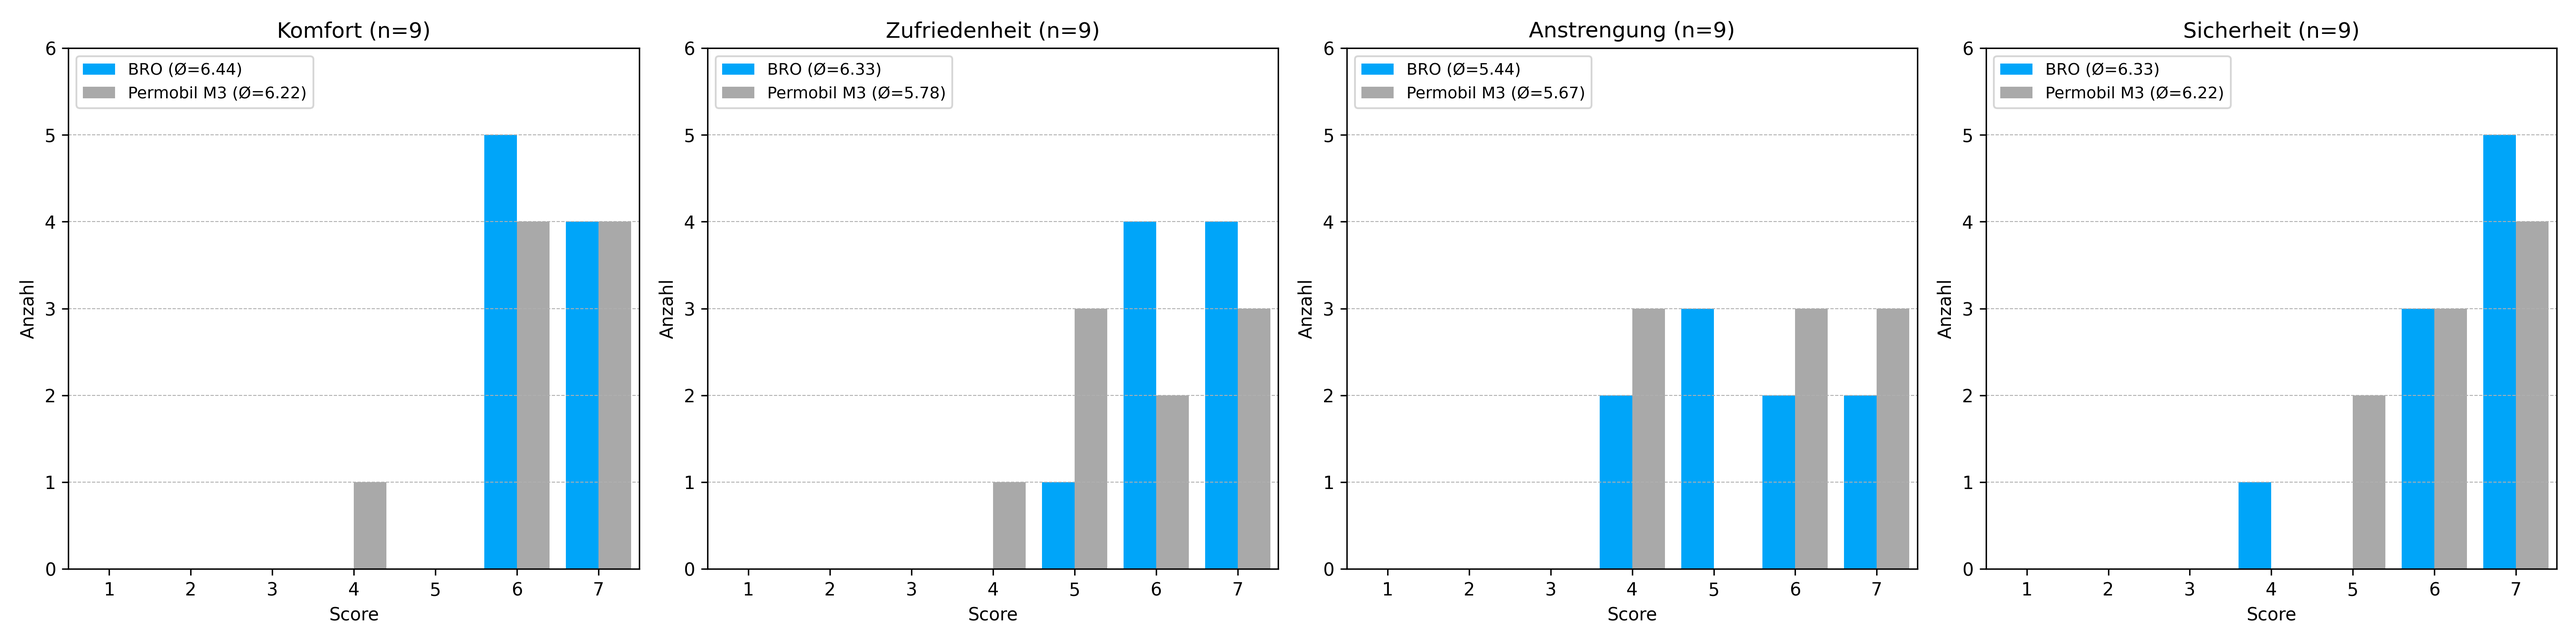
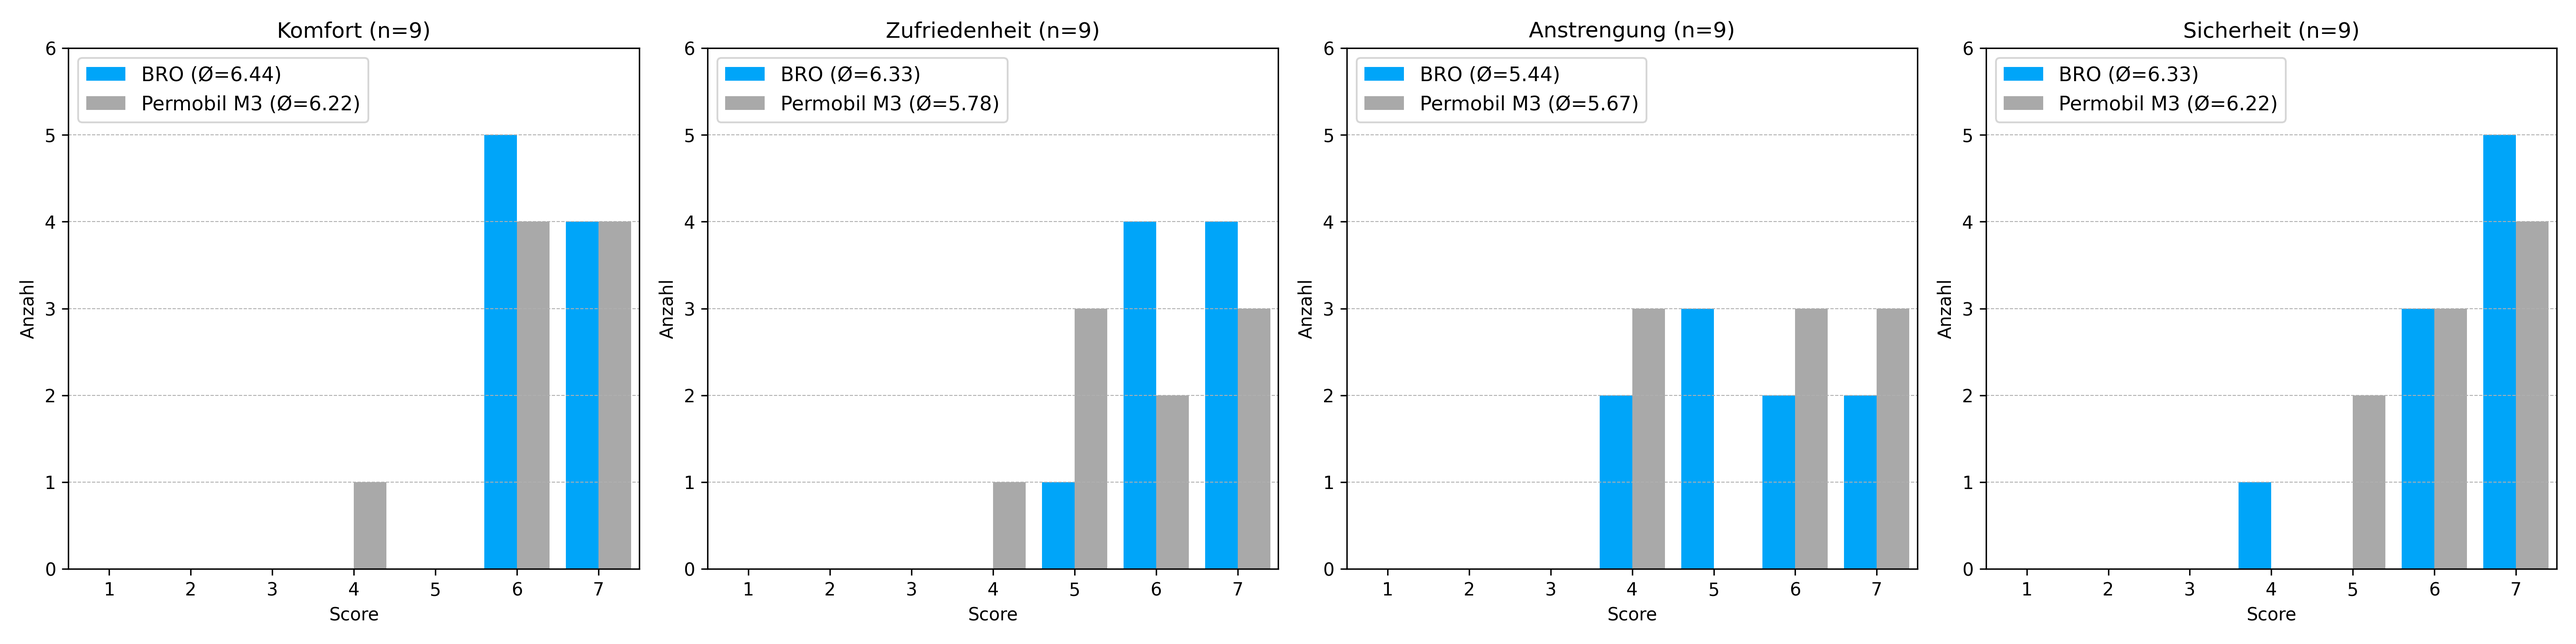
new charts

diff --git a/Code/EOU-effort_barplot.py b/Code/EOU-effort_barplot.py
@@ -15,13 +15,11 @@ def load_csv(filename):
     return pd.read_csv(os.path.join(BASE_DIR, "../Data", filename))
 
 def calculate_mean(value_counts):
-    """Calculate the mean score from value counts."""
     scores = np.array(value_counts.index)
     freq = value_counts.values
     return (scores * freq).sum() / freq.sum() if freq.sum() > 0 else 0
 
 def extract_metric_values(df, metric_suffix, task_labels):
-    """Extract EOU or effort values with correct M1/M2 mapping based on group."""
     records = []
     for _, row in df.iterrows():
         for task in task_labels:
@@ -51,23 +49,26 @@ def plot_eou_effort_paired(data_eou, data_effort, task_labels, output_file):
                     continue
 
                 mean_vals = {}
+                max_height = 0
+
                 for j, version in enumerate(['BRO', 'Permobil M3']):
                     values = subset[subset['Version'] == version]['Score']
                     counts = values.value_counts().reindex(SCORE_RANGE, fill_value=0).sort_index()
                     scores = np.array(counts.index)
                     freq = counts.values
                     mean_vals[version] = (scores * freq).sum() / freq.sum() if freq.sum() > 0 else 0
+                    max_height = max(max_height, freq.max())
                     x = [s + (j - 0.5) * BAR_WIDTH for s in SCORE_RANGE]
                     ax.bar(x, freq, width=BAR_WIDTH, label=f"{version} (Ø={mean_vals[version]:.2f})", color=COLOR_MAP[version])
 
                 ax.set_title(f"{metric_label} – Aufgabe {task}")
                 ax.set_xlim(0.5, 7.5)
-                ax.set_ylim(0, max(freq.max(), 1) + 1)
+                ax.set_ylim(0, max_height + 1)
                 ax.set_xticks(SCORE_RANGE)
                 ax.set_xlabel('Score')
                 ax.set_ylabel('Anzahl')
                 ax.grid(True, axis='y', linestyle='--', linewidth=0.5)
-                ax.legend(loc='upper left', fontsize=9)
+                ax.legend(loc='upper left', fontsize=11)
 
         if len(task_pair) == 1:
             axs[row_idx][1].axis('off')
@@ -79,7 +80,6 @@ def plot_eou_effort_paired(data_eou, data_effort, task_labels, output_file):
 # === Main Logic ===
 df = load_csv("merged_data.csv")
 
-# Tasks extrahieren
 eou_columns = [col for col in df.columns if col.endswith('_EOU')]
 effort_columns = [col for col in df.columns if col.endswith('_effort')]
 task_pattern = re.compile(r'^[Mm][12]_(\d+\.\d+)_')
@@ -90,12 +90,10 @@ task_labels = sorted({
     if (match := task_pattern.match(col))
 }, key=lambda x: list(map(int, x.split('.'))))
 
-# EOU und Effort extrahieren
 eou_df = extract_metric_values(df, 'EOU', task_labels)
 effort_df = extract_metric_values(df, 'effort', task_labels)
 
-# Plot erstellen
-output_path = os.path.join(BASE_DIR, "../Output", "eou_effort_grouped_barplots_combined.png")
+output_path = os.path.join(BASE_DIR, "../Output", "eou_effort_grouped_barplots_combined_dynamic_ylim.png")
 plot_eou_effort_paired(eou_df, effort_df, task_labels, output_path)
 
 print(f"EOU + Effort Diagramm gespeichert unter: {output_path}")

diff --git a/Code/score_barplot_improved.py b/Code/score_barplot_improved.py
@@ -35,22 +35,20 @@ def plot_bar_chart(ax, score_counts, title, global_max):
     x = np.arange(len(score_counts.index))
     width = 0.35
 
-    bars_bro = ax.bar(x - width/2, score_counts['BRO'], width, label='BRO', color=COLOR_MAP['BRO'])
-    bars_m3 = ax.bar(x + width/2, score_counts['Permobil M3'], width, label='Permobil M3', color=COLOR_MAP['Permobil M3'])
-
     mean_bro = calculate_mean(score_counts, 'BRO')
     mean_m3 = calculate_mean(score_counts, 'Permobil M3')
 
-    ax.set_title(f"{title} – BRO (Ø={mean_bro:.2f}), M3 (Ø={mean_m3:.2f})", fontsize=10)
+    bars_bro = ax.bar(x - width/2, score_counts['BRO'], width,
+                      label=f'BRO (Ø={mean_bro:.2f})', color=COLOR_MAP['BRO'])
+    bars_m3 = ax.bar(x + width/2, score_counts['Permobil M3'], width,
+                     label=f'Permobil M3 (Ø={mean_m3:.2f})', color=COLOR_MAP['Permobil M3'])
+
+    ax.set_title(title, fontsize=10)
     ax.set_xticks(x)
     ax.set_xticklabels(['Fail (1)', 'Partial Pass (2)', 'Pass (3)'])
     ax.set_ylim(0, global_max + 3)
     ax.grid(True, axis='y', linestyle='--', linewidth=0.5)
-
-    for bar in bars_bro + bars_m3:
-        height = bar.get_height()
-        if height > 0:
-            ax.text(bar.get_x() + bar.get_width() / 2, height + 0.3, f"{int(height)}", ha='center', va='bottom', fontsize=8)
+    ax.legend(loc='upper left', fontsize=10)
 
 # === Main Logic ===
 df = load_csv("merged_data.csv")

diff --git a/Code/ssi_barplot_improved.py b/Code/ssi_barplot_improved.py
@@ -89,7 +89,7 @@ for ax, item in zip(axs, SSI_ITEMS):
     ax.set_xlabel('Score')
     ax.set_ylabel('Anzahl')
     ax.grid(True, axis='y', linestyle='--', linewidth=0.5)
-    ax.legend(loc='upper left', fontsize=9)
+    ax.legend(loc='upper left', fontsize=11)
 
 plt.tight_layout()
 
